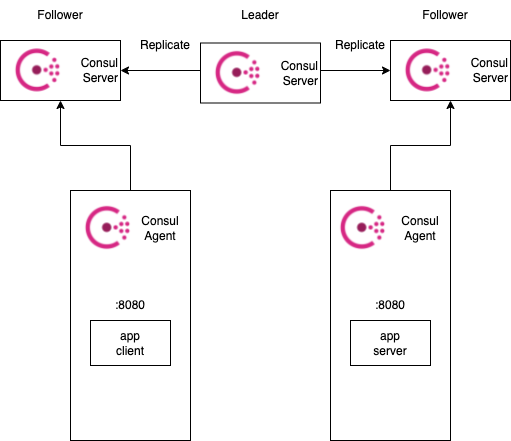
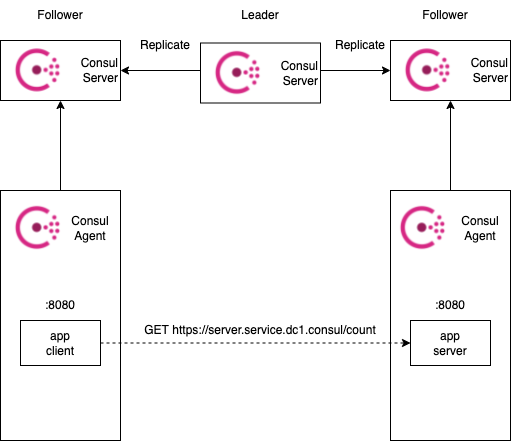
add demo app

diff --git a/README.md b/README.md
@@ -4,18 +4,40 @@
 
 ![architecture](https://learn.hashicorp.com/img/consul-arch-single.png)
 
-## DNS Interface
-
-[DNS Interface](https://www.consul.io/docs/discovery/dns)
-
 ## Connect-Native App Integration
 
-[Connect Configuration](https://www.consul.io/docs/connect/configuration)
+Service mesh using Consul Connect-Native
 
 [Connect-Native App Integration](https://www.consul.io/docs/connect/native)
 
+[Connect Configuration](https://www.consul.io/docs/connect/configuration)
+
 [Connect-Native App Integration With Go](https://www.consul.io/docs/connect/native/go)
 
+## DNS Interface
+
+Consul service discovery DNS
+
+[DNS Interface](https://www.consul.io/docs/discovery/dns)
+
 ## Demo
+
+Run:
+
+```bash
+make run
+```
+
+Test API:
+
+```bash
+# Send get request to counting server
+$ curl localhost:8081/
+{"count":2,"hostname":"4b2a8b9fd305"}
+
+# Query server address
+$ curl localhost:8081/query
+192.168.208.7:8080
+```
 
 ![deploy](./docs/images/consul.png)
